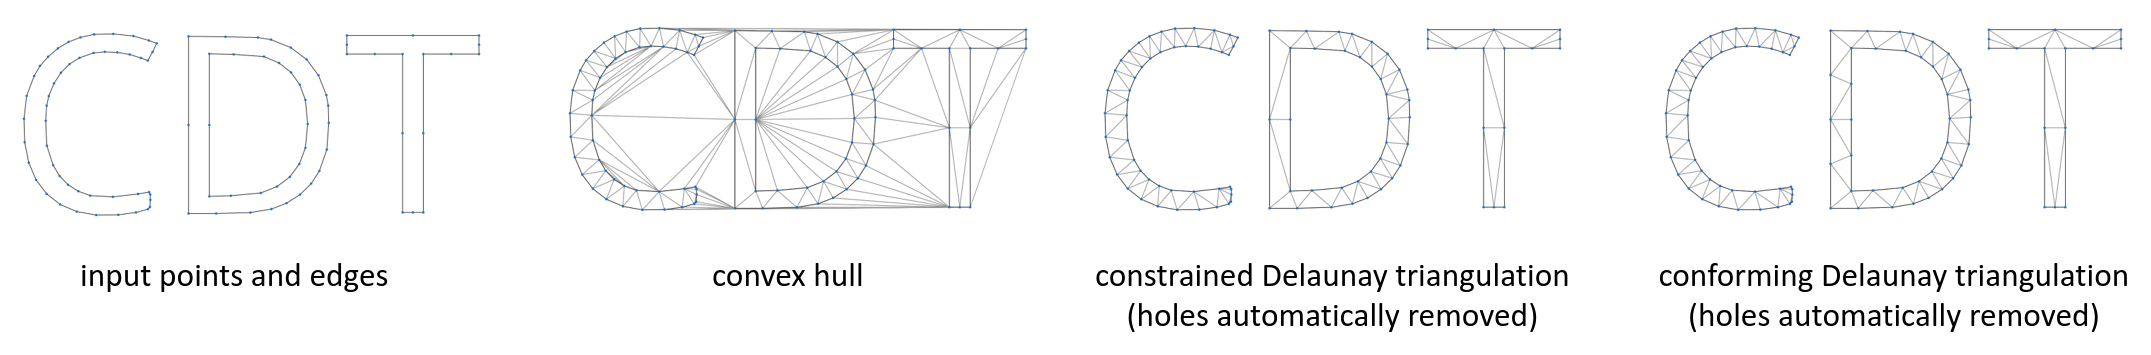
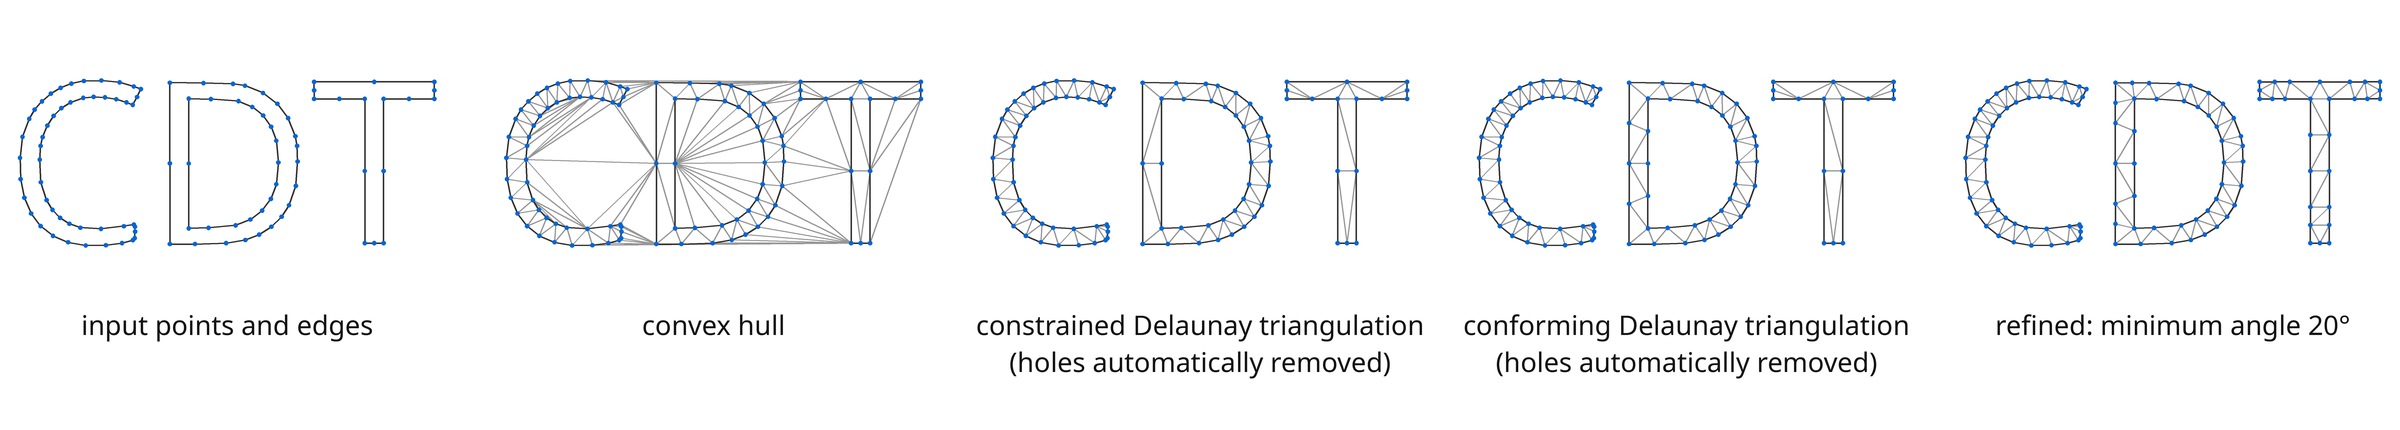
Document refinement in README
Add a refinement section, a code example, and refined gallery images.
Redraw the logo and the show-case image with refinement.

diff --git a/docs/README.md b/docs/README.md
@@ -23,6 +23,7 @@ CDT is a C++ library for generating constraint or conforming Delaunay triangulat
 - [Table of Contents](#table-of-contents)
 - [What can CDT do?](#what-can-cdt-do)
 - [Properly Handling the Corner-Cases](#properly-handling-the-corner-cases)
+- [Refinement](#refinement)
 - [Online Documentation](#online-documentation)
 - [Algorithm](#algorithm)
 - [Implementation Details](#implementation-details)
@@ -33,6 +34,7 @@ CDT is a C++ library for generating constraint or conforming Delaunay triangulat
     - Delaunay triangulation without constraints (triangulated convex-hull)
     - Constrained Delaunay triangulation (auto-detected boundaries and holes)
     - Conforming Delaunay triangulation
+    - Refinement
     - Resolve edge intersections by adding new points and splitting edges
     - Custom point/edge type
     - Callbacks
@@ -47,10 +49,11 @@ CDT is a C++ library for generating constraint or conforming Delaunay triangulat
 <a name="what-can-cdt-do"></a>
 
 ## What can CDT do?
-<img src="./images/show-case.png" alt="CDT show-case: constrained and conforming triangulations, convex hulls, automatically removing holes" style='height: 100%; width: 100%; max-height: 300px; object-fit: contain'/>
+<img src="./images/show-case.png" alt="CDT show-case: constrained and conforming triangulations, convex hulls, automatically removing holes, refinement" style='height: 100%; width: 100%; max-height: 300px; object-fit: contain'/>
 
 - Constrained Delaunay Triangulations: force edges into Delaunay triangulation
 - Conforming Delaunay Triangulations: add new points into Delaunay triangulation until the edge is present in triangulation
+- Refinement: add new points until triangles fulfill a minimum-angle or maximum-area criterion
 - Convex-hulls
 - Automatically finding and removing holes
 
@@ -62,6 +65,28 @@ CDT is a C++ library for generating constraint or conforming Delaunay triangulat
 - Points exactly on the edges
 - Exactly overlapping edges
 - Resolving intersecting edges by adding points at the intersections (with `CDT::IntersectingConstraintEdges::TryResolve`)
+
+<a name="refinement"></a>
+
+## Refinement
+<img src="./images/refinement.png" alt="CDT refinement: minimum angle and maximum triangle area criteria" style='height: 100%; width: 100%; max-height: 300px; object-fit: contain'/>
+
+`CDT::Triangulation::refineTriangles` improves the shape of the triangles by inserting new points (Steiner points).
+
+- Two criteria are supported with `CDT::RefinementCriterion`:
+    - `SmallestAngle`: smallest angle of a triangle must be at least the threshold (in radians, use `CDT::degToRad`)
+    - `LargestArea`: area of a triangle must be at most the threshold
+- Constraint edges are conformed to: an edge that is encroached by a nearby point is split. New points are never inserted across an input boundary.
+- Refinement stops when the budget of inserted vertices `maxVerticesToInsert` is used up. Edges and triangles that are already shorter than `minEdgeLength` are not split any further.
+- Refinement must be done before the triangulation is finalized with one of the `erase` methods. To refine only the triangles that are kept, collect the triangles to remove first (`CDT::Triangulation::collectSuperTriangle`, `CDT::Triangulation::collectOuterTriangles`, `CDT::Triangulation::collectOuterTrianglesAndHoles`), pass them to `CDT::Triangulation::refineTriangles`, and remove them afterwards with `CDT::Triangulation::finalizeTriangulation`.
+
+**Limits of refinement**
+
+<img src="./images/refinement-limits.png" alt="Sharp corner of the input that refinement can not improve" style='height: 100%; width: 100%; max-height: 200px; object-fit: contain'/>
+
+Some places can not be refined: e.g., a sharp angle between two constraint edges comes from the input and can not be made any larger.
+- `CDT::Triangulation::refineTriangles` returns `CDT::Unrefined` with the counts of the refinements that could not be performed
+- `CDT::Triangulation::findUnrefinedTriangles` and `CDT::Triangulation::findEncroachedFixedEdges` locate such places in the resulting triangulation
 
 
 <a name="online-documentation"></a>
@@ -80,6 +105,7 @@ when at least one vertex belongs to super-triangle are resolved using an approac
 - Order in which vertices are inserted is controlled by `CDT::VertexInsertionOrder`: 
   - `CDT::VertexInsertionOrder::Auto` uses breadth-first traversal of a Kd-tree for initial bulk-load <a href="#[4]">[4]</a> and randomized insertion order for the subsequent calls of `CDT::Triangulation::insertVertices`. Randomization improves performance and avoid worst-case scenarios. Generally vertex insertion with `CDT::VertexInsertionOrder::Auto` is faster.
   - The original vertices order can be optied-in using `CDT::VertexInsertionOrder::AsProvided` when constructing a triangulation. 
+- Refinement closely follows Ruppert's Delaunay refinement algorithm <a href="#[5]">[5]</a>. Encroached constraint edges are split before a circumcenter is inserted. At input corners with a small angle the edges are split on concentric shells (powers of two) so that refinement terminates.
 
 **Pre-conditions:**
 - No duplicated points (use provided functions for removing duplicate points and re-mapping edges)
@@ -236,6 +262,24 @@ cdt.eraseOuterTrianglesAndHoles();
 
 Use `CDT::Triangulation::conformToEdges` instead of `CDT::Triangulation::insertEdges`
 
+**Refinement**
+
+<img src="./images/A_refined.png" alt="Example of a refined triangulation" height="150"/>
+
+```cpp
+// ... same as above
+cdt.insertVertices(/* points */);
+cdt.insertEdges(/* boundary edges */);
+// collect the triangles to remove first so that they are not refined
+CDT::TriIndUSet toErase = cdt.collectOuterTrianglesAndHoles();
+CDT::Unrefined unrefined = cdt.refineTriangles(
+    /* max. Steiner vertices */ CDT::VertInd(10000),
+    CDT::RefinementCriterion::SmallestAngle,
+    CDT::degToRad(20.),
+    &toErase);
+cdt.finalizeTriangulation(toErase);
+```
+
 **Resolve edge intersections by adding new points and splitting edges**
 
 Pass `CDT::IntersectingConstraintEdges::TryResolve` to `CDT::Triangulation` constructor.
@@ -291,7 +335,7 @@ CDT reports errors by throwing exceptions. All of them derive from `CDT::Error` 
 
 | Exception | Thrown by | When                                                                                                                                                                                                  |
 |-----------|-----------|-------------------------------------------------------------------------------------------------------------------------------------------------------------------------------------------------------|
-| `CDT::FinalizedError` | `insertVertices`, `insertEdges`, `conformToEdges` | triangulation was already finalized with one of the `erase` methods                                                                                                                                   |
+| `CDT::FinalizedError` | `insertVertices`, `insertEdges`, `conformToEdges`, `refineTriangles`, `findEncroachedFixedEdges`, `collect...` and `erase...` methods | triangulation was already finalized with one of the `erase` methods                                                                                                                                   |
 | `CDT::DuplicateVertexError` | `insertVertices` | inserted vertex coincides with an already inserted one                                                                                                                                                |
 | `CDT::IntersectingConstraintsError` | `insertEdges`, `conformToEdges` | constraint edges intersect while `CDT::IntersectingConstraintEdges::NotAllowed` is used                                                                                                               |
 | `CDT::InvalidEdgeSplitVertex` | `insertEdges`, `conformToEdges` | intersection of constraint edges can not be resolved while `CDT::IntersectingConstraintEdges::TryResolve` is used: split vertex position is breaking triangulation topology due to floating-point rounding errors |
@@ -321,6 +365,7 @@ For Python bindings check-out [PythonCDT](https://github.com/artem-ogre/PythonCD
 - [Madrich](https://github.com/Madrich): help with implementing user callbacks ([#178](https://github.com/artem-ogre/CDT/issues/178))
 - [davidkellerman](https://github.com/davidkellerman): finding and reproducing bug in KDTree's `nearest` method ([#200](https://github.com/artem-ogre/CDT/issues/200))
 - [Boris Clémençon](https://github.com/borisclemencon): finding and reproducing, and reporting a bug ([#204](https://github.com/artem-ogre/CDT/issues/204))
+- [Islam Omar](https://github.com/Islam0mar): first implementation of Ruppert refinement
 
 <a name="contributing"></a>
 
@@ -346,7 +391,7 @@ ${INSERT_FULL_MPL_2.0_TEXT}
 <a name="example-gallery"></a>
 
 ## Example Gallery
-<img src="./images/A.png" alt="A" style='height: 45%; width: 45%; object-fit: contain'/> <img src="./images/Bean.png" alt="Bean" style='height: 45%; width: 45%; object-fit: contain'/> <img src="./images/Guitar.png" alt="Guitar" style='height: 45%; width: 45%; object-fit: contain'/> <img src="./images/Guitar_no_holes.png" alt="Guitar with holes" style='height: 45%; width: 45%; object-fit: contain'/> <img src="./images/LakeSuperior.png" alt="Lake Superior" style='height: 45%; width: 45%; object-fit: contain'/> <img src="./images/Sweden.png" alt="Sweden" style='height: 45%; width: 45%; object-fit: contain'/> <a name="overlapping-boundaries-example"/><img src="./images/Overlapping_boundaries.png" alt="Overlapping boundaries" style='height: 45%; width: 45%; object-fit: contain'/></a> 
+<img src="./images/A.png" alt="A" style='height: 45%; width: 45%; object-fit: contain'/> <img src="./images/Bean.png" alt="Bean" style='height: 45%; width: 45%; object-fit: contain'/> <img src="./images/Guitar.png" alt="Guitar" style='height: 45%; width: 45%; object-fit: contain'/> <img src="./images/Guitar_no_holes.png" alt="Guitar with holes" style='height: 45%; width: 45%; object-fit: contain'/> <img src="./images/Guitar_refined.png" alt="Guitar refined by maximum triangle area" style='height: 45%; width: 45%; object-fit: contain'/> <img src="./images/LakeSuperior.png" alt="Lake Superior" style='height: 45%; width: 45%; object-fit: contain'/> <img src="./images/Sweden.png" alt="Sweden" style='height: 45%; width: 45%; object-fit: contain'/> <img src="./images/Sweden_refined.png" alt="Sweden refined by minimum angle" style='height: 45%; width: 45%; object-fit: contain'/> <a name="overlapping-boundaries-example"/><img src="./images/Overlapping_boundaries.png" alt="Overlapping boundaries" style='height: 45%; width: 45%; object-fit: contain'/></a> 
 
 <a name="bibliography"></a>
 
@@ -381,3 +426,12 @@ A new insertion sequence for incremental Delaunay triangulation.
 _Acta Mechanica Sinica_,
 Volume 29,
 2013
+
+<a name="[5]">[5]</a> Jim Ruppert,
+A Delaunay refinement algorithm for quality 2-dimensional mesh generation,
+_Journal of Algorithms_,
+Volume 18,
+Issue 3,
+Pages 548-585,
+1995,
+DOI 10.1006/jagm.1995.1021.
